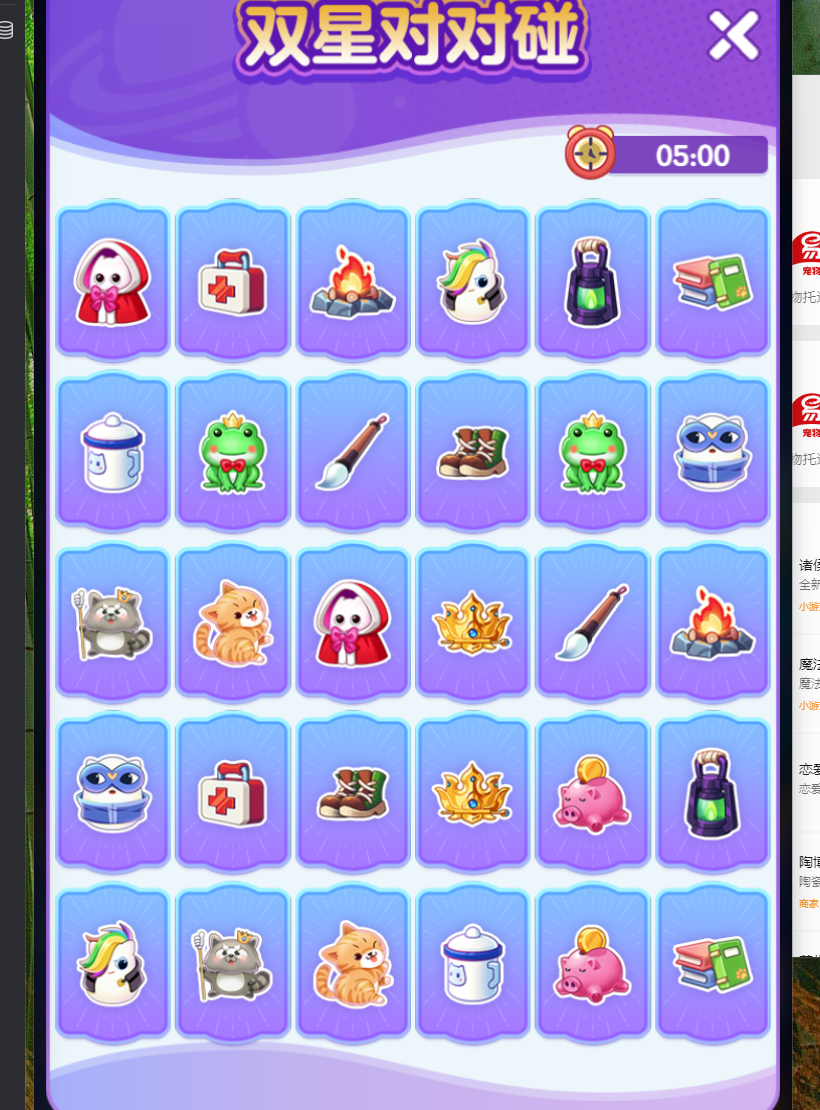
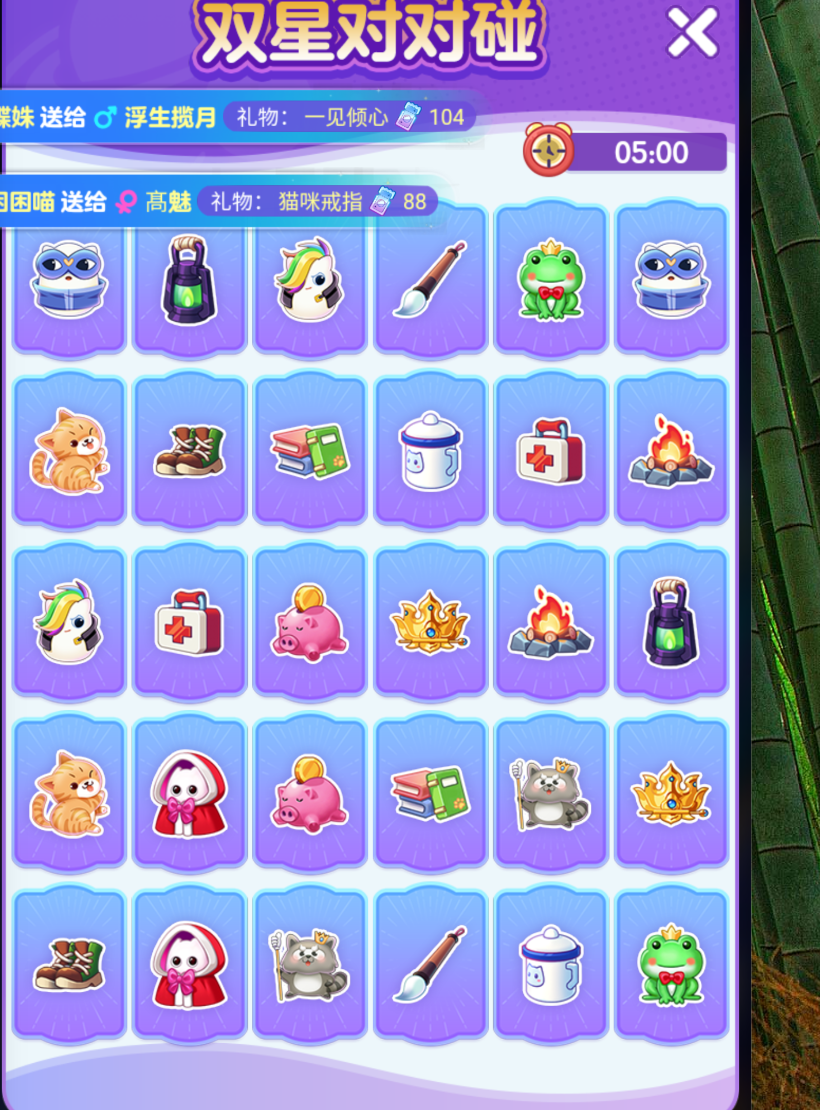
Fix some bugs and adjust params

diff --git a/running.py b/running.py
@@ -81,32 +81,44 @@ class MainRun:
         time.sleep(1)
 
     def visiting(self):
-        time.sleep(4 if self.is_mac else 2)
         # Disable grab cat
         # if not self.sc:
         #     self.grab_cat()
 
-        if self.go_home or self.is_niu:
+        while not single_find("VisitGoHome"):
+            log("Visit Go Home was not found! Sleep for 1 second")
+            time.sleep(1)
+
+        log("Visit Go home found! In visiting main mode now!")
+
+        if self.go_home or self.is_niu or (self.current_mode == "ONEB" and not single_find("33")):
             log("Going home!")
-            while single_find("VisitGoHome"):
+            
+            # Click go home and confirm until we return to main page
+            while simple_single_find("VisitGoHome", "Single", 0.8):
                 try:
                     center = get_center("VisitGoHome", "Single")
                     click_at(center.x / self.sft, center.y / self.sft)
                     log("Clicked go home!")
                     time.sleep(2)
-                    center = get_center("Confirm", "Single")
-                    click_at(center.x / self.sft, center.y / self.sft)
-                    log("Clicked confirm button!")
+                    
+                    # Use config coordinate for go home confirm
+                    gohome_confirm_coords = self.smart_grab.config.get_coord("gohome_confirm")
+                    if gohome_confirm_coords:
+                        click_at(gohome_confirm_coords[0], gohome_confirm_coords[1])
+                        log(f"Clicked go home confirm at ({gohome_confirm_coords[0]:.1f}, {gohome_confirm_coords[1]:.1f})")
+                    else:
+                        log("ERROR: gohome_confirm coordinates not found in config!")
                     time.sleep(2)
-                    if single_find("VisitBack"):
-                        center = get_center("VisitBack", "Single")
-                        click_at(center.x / self.sft, center.y / self.sft)
-                        time.sleep(2)
                 except:
                     log("Super slow in loading animation")
-
-            log("Go home directly")
-            return
+                    time.sleep(1)
+            if not simple_single_find("VisitComplete", "Visit", 0.8):
+                log("Go home completed - returned to main page")
+                # If ONEB mode, reset friend_index back (since we're going home, not visiting)
+                self.friend_index = self.friend_index - 1
+                log(f"ONEB mode - friend slot reset back to #{self.friend_index}")
+                return
         log("In visiting mode!")
         self.visits += 1
 
@@ -175,10 +187,18 @@ class MainRun:
                 log("Complete Rolling!")
             elif "VisitComplete" in btl:
                 log(f"Complete visiting! (Visit #{self.visits}, Total rolls: {self.visit_roll_count})")
-                while single_find("VisitBack"):
-                    cc = get_center("VisitBack", "Single")
-                    click_at(cc.x / self.sft, cc.y / self.sft)
-                    time.sleep(1)
+                
+                # While loop to ensure complete is gone
+                while simple_single_find("VisitComplete", "Visit", 0.8):
+                    if simple_single_find("VisitBack", "Single", 0.8):
+                        cc = get_center("VisitBack", "Single")
+                        click_at(cc.x / self.sft, cc.y / self.sft)
+                        log("Clicked VisitBack to clear complete")
+                        time.sleep(1)
+                    else:
+                        time.sleep(1)
+                
+                log("VisitComplete is gone, continuing...")
                 return
             elif "Timeout" in btl:
                 log("Visit timeout!")
@@ -469,7 +489,7 @@ class MainRun:
 
     def switch_run(self):
         while True:
-            if simple_single_find("FACE_UP_LEFT", "Single", 0.65):
+            if simple_single_find("FACE_UP_LEFT", "Single", 0.64):
                 if self.current_mode != "TWB":
                     log("🔄 Switching to TWB mode")
                     self.current_mode = "TWB"
@@ -491,41 +511,6 @@ class MainRun:
                 time.sleep(2)
                 continue
             elif "VisitMain" in bts:
-                # In ONEB mode, go home directly instead of visiting friends
-                if self.current_mode == "ONEB":
-                    log("ONEB mode - Going home directly!")
-                    log(f"Friend slot #{self.friend_index % 16} not used (going home, slot stays at {self.friend_index})")
-                    self.visits += 1
-                    center = get_center("VisitFriend", "Single")
-                    click_at(center.x / self.sft, center.y / self.sft)
-                    time.sleep(1)
-                    click_at(center.x / self.sft, center.y / self.sft)
-                    time.sleep(1)
-                    click_at(center.x / self.sft, center.y / self.sft - 200)
-                    time.sleep(2)
-                    
-                    # Go home logic
-                    while single_find("VisitGoHome"):
-                        try:
-                            center = get_center("VisitGoHome", "Single")
-                            click_at(center.x / self.sft, center.y / self.sft)
-                            log("Clicked go home!")
-                            time.sleep(2)
-                            center = get_center("Confirm", "Single")
-                            click_at(center.x / self.sft, center.y / self.sft)
-                            log("Clicked confirm button!")
-                            time.sleep(2)
-                            if single_find("VisitBack"):
-                                center = get_center("VisitBack", "Single")
-                                click_at(center.x / self.sft, center.y / self.sft)
-                                time.sleep(2)
-                        except:
-                            log("Super slow in loading animation")
-                    log("Go home completed")
-                    time.sleep(1)
-                    continue
-                
-                # TWB mode - visit friends normally
                 log("Visiting! This is " + str(self.visits) + " visit!")
                 center = get_center("VisitFriend", "Single")
                 click_at(center.x / self.sft, center.y / self.sft)
@@ -533,9 +518,11 @@ class MainRun:
                 click_at(center.x / self.sft, center.y / self.sft)
                 time.sleep(1)
                 click_at(center.x / self.sft, center.y / self.sft - 200)
+                
                 if not self.find_cat_house():
                     time.sleep(1)
                     self.find_cat_house()
+                
                 self.visiting()
                 time.sleep(1)
                 continue

diff --git a/test.py b/test.py
@@ -19,20 +19,20 @@ from common import *
 # print(pyautogui.locateOnScreen("pics/face_up_left.png", confidence=0.8))
 # print(pyautogui.locateOnScreen("pics/twenty_throw_on_bar.png", confidence=0.8))
 
-# if single_find("Disconnected"):
-#     print("Find disconnected")
-#     center = get_center("Disconnected", "Single")
-#     click_at(center.x / 1, center.y / 1 + 200)
-#     time.sleep(1)
+if single_find("VisitGoHome"):
+    print("Find disconnected")
+    center = get_center("VisitGoHome", "Single")
+    click_at(center.x / 1, center.y / 1)
+    time.sleep(1)
 # # Mac needs larger scroll values
-scroll_up = 1000
-scroll_down = -100
-
-click_at(2660, 1164)
-sleep(1)
-
-pyautogui.vscroll(scroll_up)  # Make it top
-sleep(1)
-pyautogui.vscroll(-70)  # Make it bottom
-sleep(1)
-pyautogui.vscroll(-70)  # Make it
+# scroll_up = 1000
+# scroll_down = -100
+#
+# click_at(2660, 1164)
+# sleep(1)
+#
+# pyautogui.vscroll(scroll_up)  # Make it top
+# sleep(1)
+# pyautogui.vscroll(-70)  # Make it bottom
+# sleep(1)
+# pyautogui.vscroll(-70)  # Make it

diff --git a/auto_snapshot_solver.py b/auto_snapshot_solver.py
@@ -170,7 +170,7 @@ class AutoSnapshotSolver:
             return False
         
         log("\nStep 3: Waiting 1 second after flip back...")
-        time.sleep(1.0)
+        time.sleep(2.0)
         
         log("\nStep 4: Running template card matcher...")
         log("="*70)
@@ -179,8 +179,8 @@ class AutoSnapshotSolver:
         matcher = TemplateCardMatcher()
         success = matcher.solve_and_click(
             threshold=0.7,
-            click_delay_between=0.0,
-            click_delay_after=0.2,
+            click_delay_between=0.1,
+            click_delay_after=0.35,
             dry_run=dry_run
         )
         

diff --git a/common.py b/common.py
@@ -91,6 +91,7 @@ single_find_map = {
     "VisitBusy": get_image_path("visit_busy.png"),
     "OneMore": get_image_path("one_more.png"),
     "VisitGoHome": get_image_path("visit_go_home.png"),
+    "33": get_image_path("33.png"),
 
     # Repair
     "Repair": get_image_path("repair.png"),
